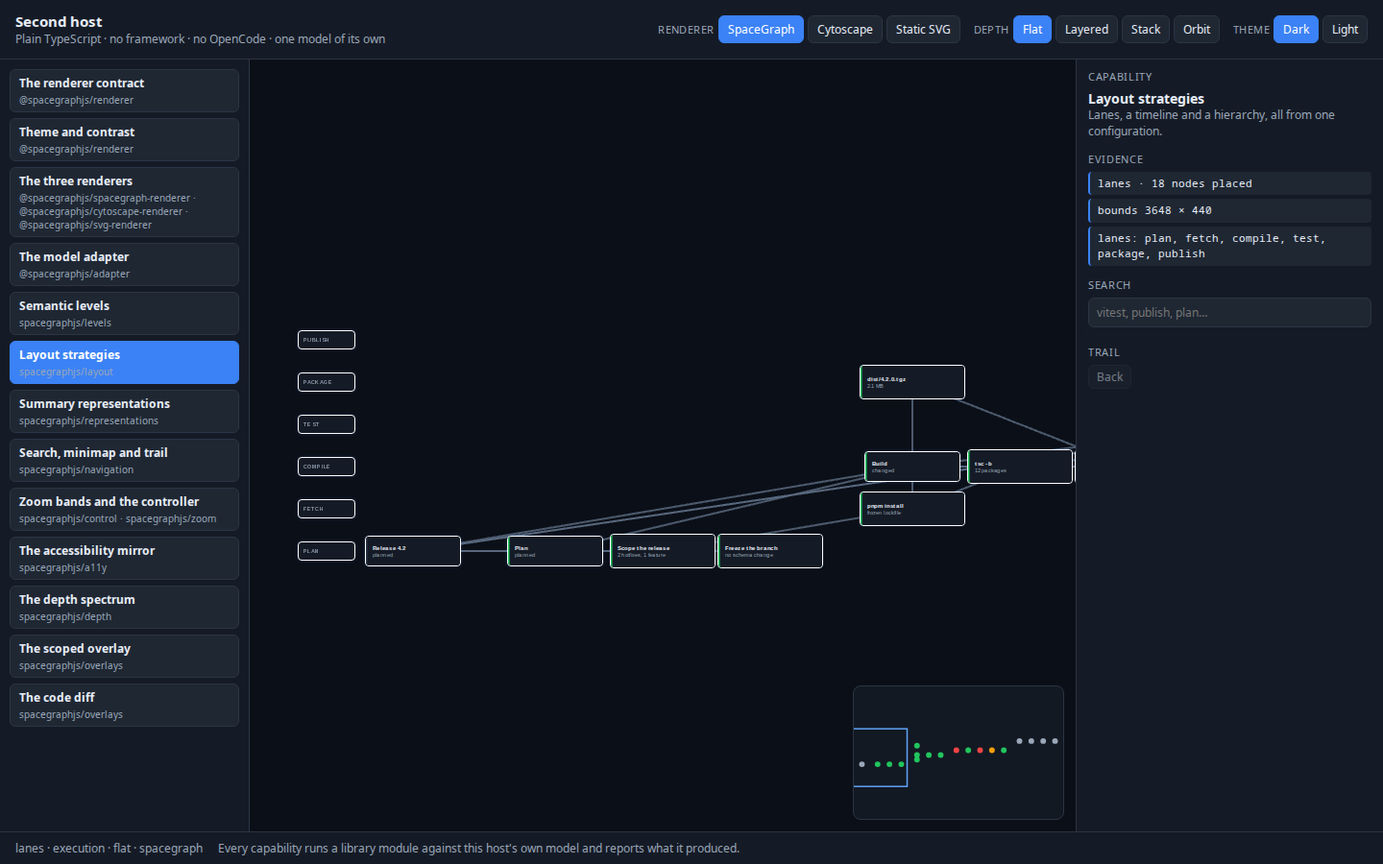
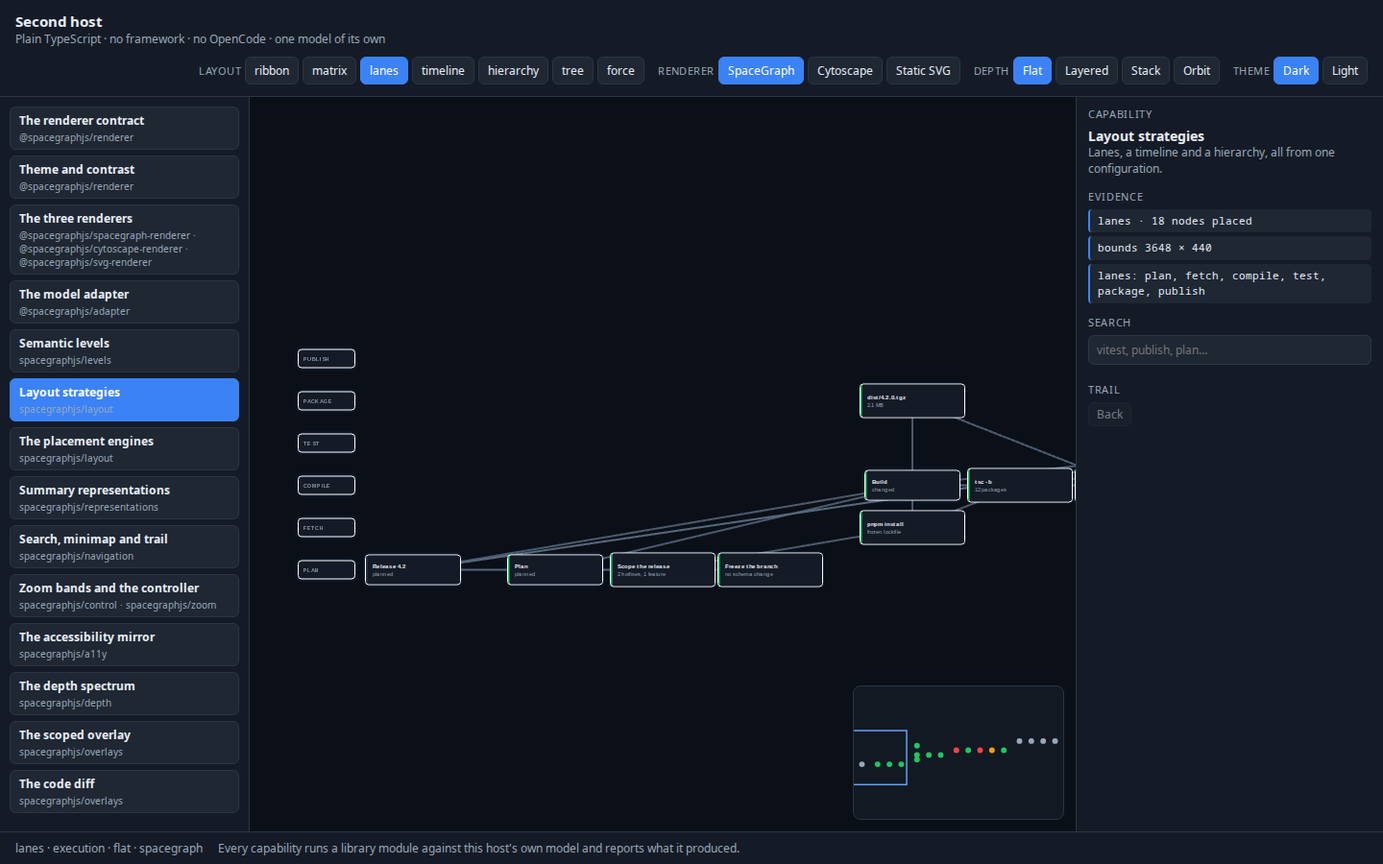
feat(graph): the tree and the force layout join the scale table
The scale budget measured the lanes pipeline; the two free geometries had
no row, so the force simulation's cost at scale was unmeasured. It is
9.3 s over 20,005 nodes against 73 ms for the lanes layout — and about
0.2 s over the 60-turn window the host actually draws. The host's layout
forwards the tree's block width, which no strategy passed down before.

diff --git a/packages/session-graph/script/scale-bench.ts b/packages/session-graph/script/scale-bench.ts
@@ -70,6 +70,8 @@ type Row = {
   edges: number
   modelMs: number
   layoutMs: number
+  treeMs: number
+  forceMs: number
   renderMs: number
   diffMs: number
   updateMs: number
@@ -90,6 +92,9 @@ for (const messages of SIZES) {
   const model = built.value
   const laid = timed(() => layoutGraph(model))
   const layout = laid.value
+  // The two free geometries: a tree and a force simulation place the same model in other shapes.
+  const treed = timed(() => layoutGraph(model, { strategy: "tree" }))
+  const forced = timed(() => layoutGraph(model, { strategy: "force" }))
   const rendered = timed(() =>
     buildRenderModel(model, { level: "execution", positions: layout.positions, bands: true }),
   )
@@ -120,6 +125,8 @@ for (const messages of SIZES) {
     edges: model.edges.length,
     modelMs: built.ms,
     layoutMs: laid.ms,
+    treeMs: treed.ms,
+    forceMs: forced.ms,
     renderMs: rendered.ms,
     diffMs: diffed.ms,
     updateMs: update.ms,
@@ -130,13 +137,27 @@ for (const messages of SIZES) {
 if (values.json) {
   console.log(JSON.stringify(rows, null, 2))
 } else {
-  const head = ["messages", "nodes", "edges", "model", "layout", "render", "diff", "update", "changed"]
+  const head = [
+    "messages",
+    "nodes",
+    "edges",
+    "model",
+    "layout",
+    "tree",
+    "force",
+    "render",
+    "diff",
+    "update",
+    "changed",
+  ]
   const body = rows.map((row) => [
     String(row.messages),
     String(row.nodes),
     String(row.edges),
     `${row.modelMs.toFixed(1)}ms`,
     `${row.layoutMs.toFixed(1)}ms`,
+    `${row.treeMs.toFixed(1)}ms`,
+    `${row.forceMs.toFixed(1)}ms`,
     `${row.renderMs.toFixed(1)}ms`,
     `${row.diffMs.toFixed(1)}ms`,
     `${row.updateMs.toFixed(1)}ms`,

diff --git a/packages/session-ui/src/graph/layout.ts b/packages/session-ui/src/graph/layout.ts
@@ -31,6 +31,8 @@ export type LayoutOptions = {
   depthStep?: number
   /** Timeline: cards per wrapped row before a turn's block folds to the next row. */
   columns?: number
+  /** Tree: leaves a block holds before it folds to the next row. */
+  treeColumns?: number
   /** Timeline/hierarchy: vertical distance between rows. */
   rowGap?: number
   /** Hierarchy: rows per column before the outline wraps into the next column. */
@@ -144,6 +146,7 @@ export function layoutGraph(model: GraphModel, options: LayoutOptions = {}): Gra
     turnGap: options.turnGap,
     depthStep: options.depthStep,
     columns: options.columns,
+    treeColumns: options.treeColumns,
     rowGap: options.rowGap,
     rows: options.rows,
     previous: options.previous,

diff --git a/SPACEGRAPH.TODO.2.md b/SPACEGRAPH.TODO.2.md
@@ -20,9 +20,9 @@ copy TODO.1 §6 evidence into this file — cite it.
 | Upstream | `anomalyco/opencode` `dev` @ `d249607e90` |
 | SpaceGraphJS | `main` @ `cdf1440`, tagged `v8.0.0`; **publishable**: `spacegraphjs` 8.0.0 (the layout engine's contract changed — a break) + five `@spacegraphjs/*` 0.1.0 — built, proven consumable, **not uploaded** |
 | Contract | `CONTRACT_VERSION = 2` (depth spectrum) + the additive `fit(ids, { minScale })` option |
-| Last green (re-run 2026-10-20, after T7.6) | `session-ui` graph 106 · `session-graph` unit 96 · `session-graph` component 48 (1 new: the layout gallery) · `spacegraphjs` 459 + the new layout seam, tree, and force suites · `graph:verify` all steps (library build first) · app typecheck · app e2e 21/21 · publish check 2/2 · `graph:scale` (T6.6) · the second host's unit 8 + browser 8 (T6.12) |
+| Last green (re-run 2026-10-20, after the placement-engine pass) | `session-ui` graph 106 · `session-graph` unit 96 · `session-graph` component 49 · `spacegraphjs` 482 (1 new: the tree's block width) · `graph:verify` all steps (library build first) · app typecheck · app e2e 22/22 · publish check 2/2 · `graph:scale` (T6.6, now with the tree and the force row) · the second host's unit 9 + browser 9 (T6.12) |
 | Reviewer packet | `docs/spacegraph/upstream-review.md`, `upstream-pr.md`, `security.md`, `demos.md`, `decisions.md` |
-| Reference images | `docs/spacegraph/screenshots/01`–`27`, all committed — **the zoom/pan matrix (20–24) now shows what its names say (T6.19), 25 shows a long session at the drawn window (T6.6), and 26–27 show the second host (T6.12)**. The camera-driven frames (20–24) still vary between runs (**T6.20**) |
+| Reference images | `docs/spacegraph/screenshots/01`–`27` plus the second host's two placement frames (`26-second-host-tree.png`, `26-second-host-force.png`), all committed — **the zoom/pan matrix (20–24) now shows what its names say (T6.19), 25 shows a long session at the drawn window (T6.6), and 26–27 show the second host (T6.12)**. The camera-driven frames (20–24) still vary between runs (**T6.20**) |
 | Layouts | **five**: lanes, timeline, hierarchy, **tree (T7.2)**, **force (T7.3)** — pickable from the toolbar, comparable side by side in the gallery (T7.5) |
 | The 3D renderer | **fixed (T1.19)**: the billboard was inverted, so bands were rolled 50° and cards sheared; a target move re-aimed the camera, so the flat view tilted after a selection. Both fixed, both proven by tests, the capture set refreshed. **The billboard is now a switch, off by default** (2026-10-20): the cards lie in the content plane, the camera's shear is visible, and the toolbar turns them back to face the reader |
 
@@ -1074,16 +1074,19 @@ entry* (the encoding), and a *frame*. The geometry is the cheap part.
 **Do not do this track's work as capture or pixel work.** The frames are read by eye (§10); T6.15's
 pixel-diff helper was written and dropped for exactly that reason.
 
-**Notes for the next pass (2026-10-20).**
+**Notes for the next pass (2026-10-20, updated after the placement-engine pass).**
 
-- **The track is closed; two things it opens are not.** The second host (T6.12) still runs the
-  generic modules it had before — the tree and the force engines are **not** in its capability
-  gallery yet, so the library's claim that every generic module runs outside OpenCode does not yet
-  cover them. That is the obvious next library-side task, and it needs the second host's exact
-  import-set assertion updated with it.
+- **The track is closed; the two things it opened are now open too.** The second host (T6.12) runs the
+  tree and the force engines in its capability gallery and picks a layout from its own toolbar, so
+  the library's claim that every generic module runs outside OpenCode covers them. The force layout's
+  cost at scale is measured (`bun run graph:scale`): **209 ms at 409 nodes and 9.3 s at 20,005** —
+  the simulation is two orders of magnitude above the lanes layout on the same model, which is why it
+  is frozen after one run and why the host's 60-turn window is what keeps the reader-visible cost
+  near 0.2 s.
 - **The tree's block width (four leaves per row) is a policy, not a measurement.** It was chosen so
   the canonical fixture fits one frame at a legible scale. T2.2's evidence may prefer another
-  number, and the number is one config away (`TreeConfig.columns`).
+  number, and the number is now really one option away (`LayoutOptions.treeColumns` — the strategy
+  did not forward it before this pass).
 - **The evidence task can now compare layouts instead of perfecting one.** The gallery (T7.5) is the
   affordance the study needs: a participant can be shown the same session in five shapes. T2.1's
   dry run should use it, and the protocol should record which layout a participant reached for.
@@ -1367,6 +1370,13 @@ pixel-diff helper was written and dropped for exactly that reason.
     open); the first paint and the pan frame rate are still unmeasured (there is no harness); the
     60-turn window is a policy choice, not a measured optimum — the plan's evidence task (T2.2) may
     change it.
+  - **The two free geometries joined the table (2026-10-20).** `bun run graph:scale` now also
+    measures the tree and the force simulation, which the T7 track left out: the tree is a linear
+    pass (6 / 11 / 76 ms at 409 / 4,009 / 20,005 nodes), the force simulation is **not** (209 ms /
+    2.3 s / **9.3 s**). The simulation's cost grows with the content because it runs a fixed number
+    of cooling steps over a neighbour grid; the reason the reader does not pay that is the host's
+    60-turn window, which keeps the layout's input at a few hundred boxes (~0.2 s), paid once per
+    view switch. The uncapped number is also the reason the simulation is frozen after one run.
 
 - [x] **T6.8 First-run legend, help, and reduced motion**
   Make encoding discoverable: lane labels/colors, edge kinds/confidence, status dots, help popover; respect `prefers-reduced-motion` for camera/depth transitions; announce mode changes. Removes bias from usability protocol.
@@ -1556,6 +1566,21 @@ pixel-diff helper was written and dropped for exactly that reason.
   - **Unverified:** the demo was checked in Chromium at 1440×900, not in Firefox or WebKit, and not on a
     touch device; the hosted URL still has not been deployed (the workflow exists but has not run since the
     second host was added); the second host's model is synthetic, so it says nothing about a real session.
+  - **Extended (2026-10-20): the gallery now covers the placement engines, and the host picks a
+    layout.** The tree and the force simulation were the two library surfaces the gallery did not
+    claim, so the library's claim that *every* generic module runs outside OpenCode did not cover
+    them. They do now: the host binds its own vocabulary (`parentOfFn` reads its `part-of` edges,
+    `forceLinksFn` its structural edges), the gallery has a **"The placement engines"** entry that
+    runs both over the host's model and reports what each produced (`tree · 18 boxes placed · bounds
+    1240 × 616`, `force · 18 boxes placed · bounds …`), and the page grew a **layout picker**
+    (`ribbon · matrix · lanes · timeline · hierarchy · tree · force`) so the reader can see the same
+    model in every shape — the affordance T2.1 needs to compare layouts instead of perfecting one.
+  - **One gap the pass closed in the library, not the host.** The plan's note said the tree's block
+    width was "one config away (`TreeConfig.columns`)". It was not: the strategy never passed the
+    option down, so a host could not choose it. `LayoutOptions.treeColumns` now reaches the engine,
+    the fork's `layoutGraph` forwards it, and the second host uses **two** leaves per block — with
+    the default of four the tree was 3,284 units wide and no frame could hold it; at two it is 1,240
+    and the whole tree fits one frame, legible. The library's own test asserts the fold.
 
 - [ ] **T6.13 Embedder devtools**
   Dev-only overlay/API (`sg.debug()` or `?debug=1`) showing renderer, contract version, capabilities, node/edge/LOD counts, frame time, selection; matching diagnostic panel in host.
@@ -1634,7 +1659,7 @@ Keep these out of the critical path. Each is conditional on a named signal.
 | Captures | `bun run graph:capture --mode=compare` + manual inspection | Visual acceptance — **a deliberate refresh, not a per-change check** (it overwrites the committed set) |
 | The perspective proof | `docs/spacegraph/screenshots/31-graph-perspective.png` | The tilted camera with the billboard off: the cards lie in the content plane, so the camera's shear is visible |
 | Capture verify | `bun run graph:capture --mode=verify` | The routine gate: fresh renders into a temp dir, committed set asserted, and **no two frames of the zoom/pan matrix are the same picture** (T6.19) |
-| Scale budget | `bun run graph:scale` | T6.6 — the model/layout/render pipeline at 100, 1k and 5k messages |
+| Scale budget | `bun run graph:scale` | T6.6 — the model/layout/render pipeline at 100, 1k and 5k messages, plus the tree and the force rows |
 | Lint | `bun run lint:changed` | Changed files |
 | Repo check | `bun run check` | Canonical, but red for known environmental reasons; see T1.6 |
 | Provider-free demo | `bun run graph:dev` | T6.1 |
@@ -1644,7 +1669,7 @@ Keep these out of the critical path. Each is conditional on a named signal.
 | Scale guard | new 1k/5k perf test | T6.6 |
 | Library benchmark | `cd spacegraphjs && bun run bench:graph` (new) | T6.11 |
 | Published packages | `cd spacegraphjs && pnpm run test:publish` | T4.2 — packs every package, installs the tarballs into a clean consumer outside the monorepo, mounts both adapters |
-| Second host | `cd spacegraphjs && pnpm run test:second-host` + `vitest run test/second-host/` | T6.12 — a framework-free consumer outside OpenCode; every generic module runs against its own model |
+| Second host | `cd spacegraphjs && pnpm run test:second-host` + `vitest run test/second-host/` | T6.12 — a framework-free consumer outside OpenCode; every generic module runs against its own model, including the tree and the force placement |
 | Library typecheck | `cd spacegraphjs && tsc --noEmit -p tsconfig.json` | T4.4 — clean for `src`, `test` and the five packages |
 | Placement seam | `cd spacegraphjs && vitest run test/layout/` | T7.1 — the grid, the tree, and the force placement behind one interface |
 | Layout variety | `cd packages/session-graph && bun run test:components -- graph-gallery graph-legibility` | T7.4/T7.5 — every layout is pickable, legible, and comparable side by side |
@@ -3217,3 +3242,95 @@ billboard is a per-view state in the host, not persisted per session (the depth 
 the component test measures is one card of the fixture, not a sweep over every card; and the band
 bounds in a tilted view are still approximate, as T1.19 declared. **T2.1 and T2.2 still need
 participants**, so the stop rule in T2.5 has not fired.
+
+**2026-10-20 — the second host picks a layout, and the force simulation gets its number.** The
+plan's own notes named two things the last pass left open, and this pass took both. T2 still needs
+participants, so the work went where the plan says it can.
+
+*The gallery now covers the placement engines.* The tree and the force simulation were the only
+library surfaces the second host's capability gallery did not claim, so the library's claim that
+*every* generic module runs outside OpenCode did not cover them. They do now. The host binds its own
+vocabulary — `parentOfFn` reads the `part-of` edges (a stage hangs under the release, its work under
+the stage), `forceLinksFn` reads the structural edges (the `evidence` edge stays out: a link is a
+claim about the pipeline's shape, not about cause) — and a new gallery entry, **"The placement
+engines"**, runs both over the host's model and reports what each produced (`tree · 18 boxes placed ·
+bounds 1240 × 616`, `force · 18 boxes placed · bounds …`). The second host's unit suite grew to 9 and
+its browser suite to 9; the import-set assertion needed no change, because the tree and the force
+engines live in `spacegraphjs/layout`, which the gallery already claimed.
+
+*The host grew a layout picker.* Seven views did not fit in the gallery, and a gallery entry that
+changes the canvas is not a control: the page now has a `Layout` group in the header
+(`ribbon · matrix · lanes · timeline · hierarchy · tree · force`) that switches the view and re-frames
+the camera. This is the affordance T2.1 needs — a participant can be shown the same session in seven
+shapes and asked which one they reached for.
+
+*The plan was wrong about one config, and the fix was in the library.* The T7 notes said the tree's
+block width was "one config away (`TreeConfig.columns`)". It was not: `Strategies.treeLayout` never
+passed the option down, so a host could not choose it. `LayoutOptions.treeColumns` now reaches the
+engine, the fork's `layoutGraph` forwards it, and the second host uses **two** leaves per block. With
+the default of four the tree was 3,284 units wide and *no frame could hold it* — the fit's floor
+anchors the frame at the content's beginning, so the reader saw the leaves and had to pan to the
+root. At two the tree is 1,240 wide, the whole pipeline fits one frame, and the new
+`26-second-host-tree.png` shows the release over its stages with the work under each stage. The
+library's own test asserts the fold (three leaves in a row of four; two leaves per row folds the
+third to the next row).
+
+*The force simulation got the number the plan asked for.* `bun run graph:scale` now measures the tree
+and the force layout too:
+
+| Messages | Nodes | Tree | Force |
+|---|---|---|---|
+| 102 | 409 | 6.0 ms | 208.7 ms |
+| 1,002 | 4,009 | 11.4 ms | 2,318.5 ms |
+| 5,001 | 20,005 | 75.9 ms | 9,319.8 ms |
+
+The tree is a linear pass. The simulation is two orders of magnitude above the lanes layout on the
+same model — its cost grows with the content, because it runs a fixed number of cooling steps over a
+neighbour grid. The number a reader pays is much smaller: the host draws a long session as its
+recent tail (the last 60 turns), so the simulation sees a few hundred boxes, not twenty thousand —
+**~0.2 s, once per view switch**. The uncapped 9.3 s is also the reason the simulation is frozen
+after one run rather than live.
+
+*One capture defect, found by reading the frame.* The second host's frames were captured 600 ms after
+a click, but the camera flies to a new frame over 1.5 s, so the captures caught it mid-flight — the
+tree looked unframed because it was still moving. The capture now waits 2.2 s. The frames were
+refreshed and read by eye: the tree fits one frame, the force layout draws all eighteen boxes
+legibly with no overlaps, and the ribbon (the host's default view) still reads.
+
+*What did not change.* The OpenCode host's own capture set is byte-identical apart from the known
+noise floor (five frames at a max channel delta of 1–5, and `22-graph-turn-1.png` at 0.09 % — T6.20's
+residual), so those frames were left as they were. The library's public contract did not change:
+`treeColumns` is an additive layout option, and `CONTRACT_VERSION` stays 2.
+
+Commands run: `npx tsc --noEmit -p tsconfig.json` in `spacegraphjs` (0 errors), `npx vitest run` in
+`spacegraphjs` (482 pass, 1 new), `npx playwright test --config playwright.demo.config.ts
+test/e2e/second-host.spec.ts` in `spacegraphjs` (9 pass, 1 new), `pnpm run build:lib` +
+`pnpm run build:packages` in `spacegraphjs`, `bun run typecheck` in `packages/session-ui` and
+`packages/session-graph` (clean), `bun test src/graph` in `packages/session-ui` (106 pass), `bun test
+src` in `packages/session-graph` (96 pass), `bun run test:components` in `packages/session-graph`
+(49 pass), `bun run test:e2e -- e2e/graph/session-graph.spec.ts` in `packages/app` (22 pass), `bun run
+graph:scale` (the table above), `bun run graph:capture --mode=compare` (the set refreshed; the
+six noise-only frames reverted) and `bun run graph:verify` (all steps, including the library build,
+the capture verification and the publish check).
+
+Unverified: the frames were read by eye, not by a reviewer who did not write them; the second host
+was checked in Chromium at 1440×900 only; the layout picker is a row of buttons, not a menu, so it
+wraps on a narrow window (the OpenCode host uses a menu for the same reason); the force layout's
+cost was measured on synthetic sessions, not on the real corpus (T6.4 is still open); and the tree's
+block width of two is the second host's policy, not a measured optimum. **T2.1 and T2.2 still need
+participants**, so the stop rule in T2.5 has not fired.
+
+*Notes for the next pass.*
+- **What is left, in the order the plan wants it:** **T2.1 and T2.2** (the dry run and the R7.3
+  protocol) are the only things that can settle the product claim, and they need people; then
+  **T2.4** (the naming/representation/depth/file-lens decisions, from the protocol data) and
+  **T2.5** (the stop rule). **T3.7's RFC** follows the measurement, and the issue text is already
+  `upstream-pr.md` + `upstream-review.md`. **T5** (release) waits for the upstream decision. The
+  rest is refinement: **T6.4** (the real-session corpus — blocked on real session data),
+  **T6.10–T6.14** (contract v3's fit insets, the benchmark CI, the embedder devtools, the API
+  docs, the stale `vue-spacegraph`), **T6.16** (the optional pixel diff, which needs **T6.20**
+  first), and **T6.20** itself.
+- **The layout picker is now in both hosts.** The OpenCode host has a *menu* (`Layout: Lanes ▾`) and
+  the second host a row of buttons; a third host should pick one and keep it.
+- **The diff-budget numbers in `upstream-review.md` §5 drift with every app edit.** This pass
+  changed no `packages/app/src` file, so they still stand; re-audit them before the RFC.

diff --git a/docs/spacegraph/prototype.md b/docs/spacegraph/prototype.md
@@ -212,6 +212,7 @@ Cytoscape is the 2D fallback and benchmark and renders the same model with no ho
 |---|---|---|
 | Model build, 300-message / 1201-node synthetic stream (`performance.test.ts`) | 200 msgs < 50 ms | ~27 ms (guard ceiling 250 ms) |
 | Whole pipeline, 5,001-message / 20,005-node stream (`scale.test.ts`) | — | 55 ms model + 42 ms layout + 63 ms render (guard ceiling 400 ms) — see [Scale and streaming budget](#scale-and-streaming-budget-t66-measured-2026-10-20) |
+| Force layout, same stream | — | 9.3 s uncapped; ~0.2 s over the 60-turn window the host draws — see [The two free geometries](#the-two-free-geometries-t71t73-measured-2026-10-20) |
 | Lazy SpaceGraphJS chunk (gzip, excluding `three`) | < 400 KB | core chunk 282.0 KB gzip incl. `three`; adapter 2.0 KB gzip |
 | Lazy Cytoscape chunk (gzip) | < 250 KB | 137.9 KB |
 | Session-graph UI chunk | — | 28.3 KB min / 8.8 KB gzip |
@@ -259,6 +260,29 @@ incremental path has a seam to build on. The P8.8 work stays deferred until a se
 quadratic path (2,482 ms) breaks by 6×. The library has the matching call-count guard
 (`spacegraphjs/test/layout/strategies.test.ts`): a layout may ask each node for its turn a bounded
 number of times, which is what "not quadratic" means in a test that cannot flake.
+
+### The two free geometries (T7.1–T7.3, measured 2026-10-20)
+
+The same benchmark, with the tree and the force simulation added as columns. A second run, so the
+pipeline's own numbers move by a few percent (the model build reads 2.4 ms where the run above read
+2.3 ms, the render build 78 ms where it read 63 ms); the shape is what matters.
+
+| Messages | Nodes | Tree layout | Force layout |
+|---|---|---|---|
+| 102 | 409 | 6.0 ms | 208.7 ms |
+| 1,002 | 4,009 | 11.4 ms | 2,318.5 ms |
+| 5,001 | 20,005 | 75.9 ms | 9,319.8 ms |
+
+**The tree is a linear pass and the force simulation is not cheap.** The tree walks the model once
+and places the boxes; the simulation runs a fixed number of cooling steps over a neighbour grid, and
+its cost grows with the content — at 20,005 nodes it is **9.3 seconds**, two orders of magnitude
+above the lanes layout on the same model.
+
+**What a reader actually pays is much less.** The host draws a long session as its recent tail — the
+last 60 turns — so the force layout sees a few hundred boxes rather than twenty thousand: the
+measured 209 ms at 409 nodes is the number the reader waits for, and it is paid once per view
+switch, not per frame. The uncapped number is the reason the simulation is frozen after one run:
+a live simulation over a whole session would cost that again on every streamed message.
 
 ### Entry-delta baseline (T0.7, captured 2026-10-19)
 
@@ -406,7 +430,7 @@ data assumptions appear in the library.
 | Cytoscape adapter | `@spacegraphjs/cytoscape-renderer` | OpenCode fallback, contract demo, second host | 3D is a declared no-op; minimap is host-side |
 | Static SVG renderer | `@spacegraphjs/svg-renderer` | OpenCode inline subgraph, contract demo, second host | `InlineGraph` is not exercised in a browser beyond the demo |
 | Semantic levels | `spacegraphjs/levels` | OpenCode `levels.ts`, second host | none |
-| Layout strategies | `spacegraphjs/layout` | OpenCode `layout.ts`, second host | none — the timeline and the hierarchy moved onto `Strategies` |
+| Layout strategies and placement engines | `spacegraphjs/layout` | OpenCode `layout.ts`, second host | the tree's block width is a host policy (`treeColumns`), not a measured optimum |
 | Summary representations | `spacegraphjs/representations` | OpenCode `representation.ts`, second host | none |
 | Zoom bands | `spacegraphjs/zoom` | `GraphController`, second host | band→level wiring is host-owned |
 | Accessibility layer | `spacegraphjs/a11y` | OpenCode a11y mirror, second host | none — the edges are announced too (T4.7) |

diff --git a/docs/spacegraph/demos.md b/docs/spacegraph/demos.md
@@ -98,17 +98,21 @@ own.
 **What it proves.**
 
 - **Adoption outside OpenCode.** The contract, both interactive adapters, the static SVG renderer,
-  the model adapter, the level table, the layout strategies, the summary representations, the
-  navigation primitives, the controller, the accessibility mirror, the depth spectrum, the scoped
-  overlay and the code diff all run against a host they have never seen.
+  the model adapter, the level table, the layout strategies and the placement engines (the grid, the
+  tree, the force simulation), the summary representations, the navigation primitives, the
+  controller, the accessibility mirror, the depth spectrum, the scoped overlay and the code diff all
+  run against a host they have never seen.
 - **The host keeps its vocabulary.** The library owns the algorithms; the host owns the words, the
   lanes, the sizes and the markup. Changing a lane name changes nothing in the library.
 - **No framework, no OpenCode.** `spacegraphjs/test/second-host/` fails if the host imports an
   OpenCode module, a framework, or a library surface the gallery does not claim.
 
-**Screenshots.** `screenshots/26-second-host.png` (the summary, the gallery and the evidence
-panel) and `screenshots/27-second-host-lanes.png` (the lane view, panned: the pipeline is wider
-than a legible frame, so the fit keeps a floor and the reader pans the rest).
+**Screenshots.** `screenshots/26-second-host.png` (the summary, the gallery, the layout picker and
+the evidence panel), `screenshots/27-second-host-lanes.png` (the lane view, panned: the pipeline is
+wider than a legible frame, so the fit keeps a floor and the reader pans the rest),
+`screenshots/26-second-host-tree.png` (the same pipeline as a tree — the release over its stages, the
+work under its stage) and `screenshots/26-second-host-force.png` (the same boxes as a force
+simulation).
 
 **Checks.** `cd spacegraphjs && pnpm run test:second-host` (browser) and
 `cd spacegraphjs && node_modules/.bin/vitest run test/second-host/` (the unit half). Both run in
